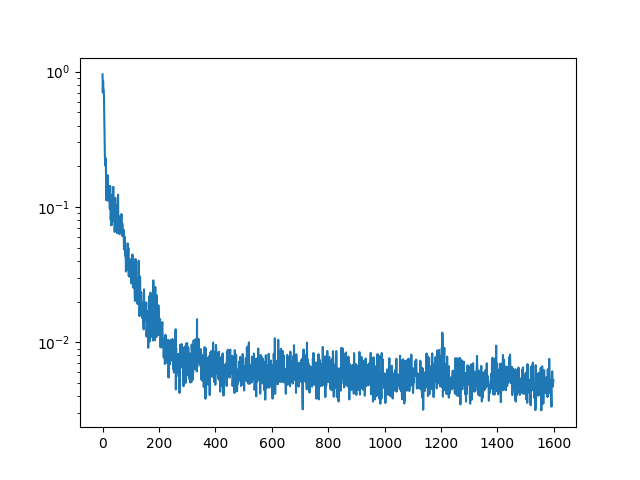
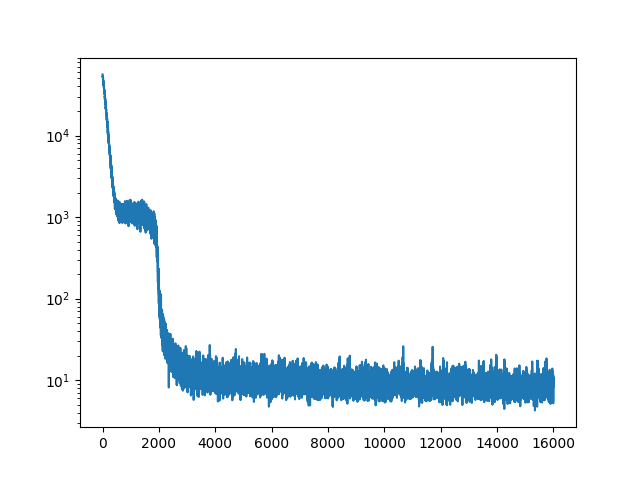
For binary classification

diff --git a/option.py b/option.py
@@ -9,20 +9,16 @@ parser=argparse.ArgumentParser()
 
 parser.add_argument('--data_path', type=str, default='data/')
 parser.add_argument('--dataset', type=str, default='data_NAX')
-parser.add_argument('--data_mode', type=str, default='standardized', help='price, standardized')
-
+parser.add_argument('--data_mode', type=str, default='price', help='[price, standardized, return]')
 parser.add_argument('--bs', type=int, default=128, help='batch size')
 parser.add_argument('--ehs', type=int, default=64, help='dimension of Encoder hidden state')
 parser.add_argument('--dhs', type=int, default=64, help='dimension of Decoder hidden state')
 parser.add_argument('--t', type=int, default=10, help='number of time steps')
 parser.add_argument('--lr', type=float, default=0.01, help='learning rate')
-parser.add_argument('--epoch', type=int, default=100, help='Epoch')
+parser.add_argument('--epoch', type=int, default=1000, help='Epoch')
 
 parser.add_argument('--test', dest='test', action='store_true')
 parser.set_defaults(test=False)
-
-parser.add_argument('--save', dest='show', action='store_false', help='show or save')
-parser.set_defaults(show=True)
 
 opt = parser.parse_args()
 

diff --git a/train.py b/train.py
@@ -69,6 +69,10 @@ def train():
         scale = StandardScaler().fit(raw_data)              # Data Scaling
         proc_dat = scale.transform(raw_data)
 
+    elif opt.data_mode == 'return':
+        proc_dat = raw_data.to_numpy()
+
+
     mask = np.ones(proc_dat.shape[1], dtype=bool)
     dat_cols = list(raw_data.columns)
     for col_name in targ_cols:
@@ -133,7 +137,7 @@ def train():
 
         epoch_losses[e_i] = np.mean(iter_losses[range(e_i * iter_per_epoch, (e_i + 1) * iter_per_epoch)])
         
-        if e_i % 10 == 0:
+        if e_i % 100 == 0:
             y_test_pred = test(net, train_data, config.train_size, config.batch_size, config.T, on_train=False)
             # TODO: make this MSE and make it work for multiple inputs
             val_loss = y_test_pred - train_data.targs[config.train_size:]

diff --git a/train_data.py b/train_data.py
@@ -1,0 +1,8 @@
+import os
+import pandas as pd
+
+data_path = os.path.join('data/data_NAX.csv')
+raw_data = pd.read_csv(data_path, index_col='Date')
+targ_cols = ("KOSPI200",)                           # target Column
+
+proc_dat = raw_data.to_numpy()
